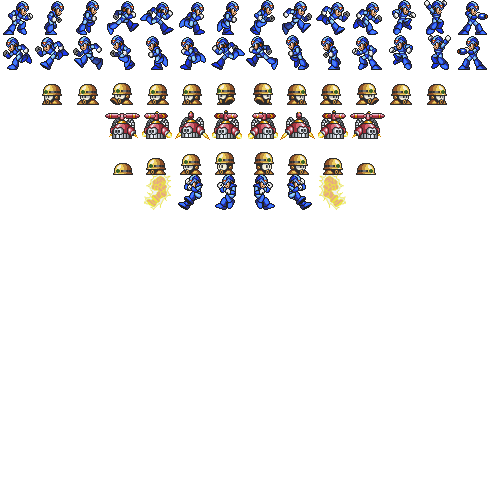
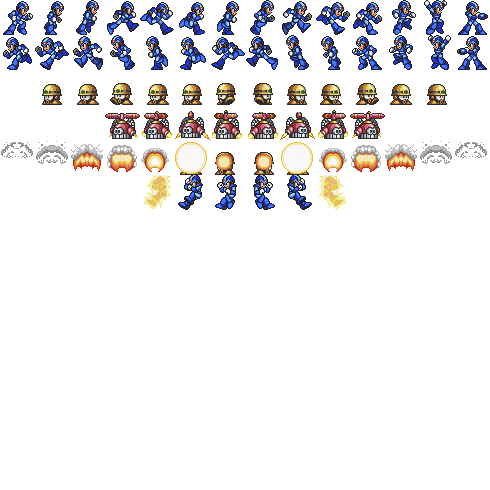
collisions with enemies

Changed region(s): [[0.5204, 0.2755, 1.0, 0.3673], [0.0, 0.2755, 0.4898, 0.3673]]

diff --git a/cBicho.cpp b/cBicho.cpp
@@ -8,7 +8,7 @@ cBicho::cBicho(void)
 {
 	seq=0;
 	delay=0;
-
+	ostion = false;
 	jumping = false;
 }
 cBicho::~cBicho(void){}
@@ -180,7 +180,8 @@ void cBicho::MoveLeft(int *map)
 		x -= STEP_LENGTH;
 		if(state != STATE_WALKLEFT)
 		{
-			if (jumping) state = STATE_JUMP_UP_LEFT;
+			if (ostion) state = STATE_JUMP_HIT_LEFT;
+			else if (jumping) state = STATE_JUMP_UP_LEFT;
 			else state = STATE_WALKLEFT;
 			seq = 0;
 			delay = 0;
@@ -212,7 +213,8 @@ void cBicho::MoveRight(int *map)
 		if(state != STATE_WALKRIGHT)
 		{
 			//SI SALTA K SALTI
-			if (jumping) state = STATE_JUMP_UP_RIGHT;
+			if (ostion) state = STATE_JUMP_HIT_RIGHT;
+			else if (jumping) state = STATE_JUMP_UP_RIGHT;
 			else state = STATE_WALKRIGHT;
 			seq = 0;
 			delay = 0;
@@ -222,7 +224,7 @@ void cBicho::MoveRight(int *map)
 void cBicho::Stop()
 {
 	//SI ESTA SALTANT NO ESTA STOP, NO ES MOU PERO SALTA
-	if (!jumping){
+	if (!jumping ){
 		switch (state)
 		{
 			case STATE_WALKLEFT:	state = STATE_LOOKLEFT;		break;
@@ -251,17 +253,42 @@ void cBicho::Jump(int *map)
 	}
 }
 
+void cBicho::Ostion(int *map)
+{
+	char s[256];
+	sprintf(s, "\nOSTION ");
+	OutputDebugStringA(s);
+	if (!jumping)
+	{
+		if (CollidesMapFloor(map))
+		{
+			ostion = true;
+			jumping = true;
+			jump_alfa = 0;
+			jump_y = y;
+			if (state == STATE_LOOKLEFT || state == STATE_JUMP_UP_LEFT || state == STATE_WALKLEFT || state == STATE_FALLING_LEFT)
+				state = STATE_JUMP_HIT_LEFT;
+			else state = STATE_JUMP_HIT_RIGHT;
+		}
+	}
+}
+
 bool cBicho::IsHited(cEnemy Enemies[], int size){
-	//35 = w&h && xR+10 = wShot/2 && xY+13 = hShot/
+	bool mandao = false;
 	for (int i = 0; i < size; ++i) {
 		int xRival, yRival;
 		Enemies[i].GetPosition(&xRival, &yRival);
-		if (x + 35 >= xRival - (35) && x + 35 <= xRival + (35)) {
-			if (((y + 35 / 2) >= (yRival - 35/2)) && ((y + 35 / 2) <= (yRival + 35/2))) return true;
-			else return false;
-		}
-		else return false;
+		
+		if (x == xRival || x+1 == xRival || x-1 == xRival) {
+			if (((y + 35 / 2) >= (yRival - 35 / 2)) && ((y + 35 / 2) <= (yRival + 35 / 2))) {
+				char s[256];
+				sprintf(s, "\n MAN DAO! el enemigo %d",i);
+				OutputDebugStringA(s);
+				return true;
+			}
+		}	
 	}
+	return false;
 }
 
 void cBicho::Shot(int *map, bool isRight)
@@ -355,6 +382,7 @@ void cBicho::Logic(int *map)
 		if(jump_alfa == 180)
 		{
 			jumping = false;
+			ostion = false;
 			y = jump_y;
 		}
 		else
@@ -365,11 +393,15 @@ void cBicho::Logic(int *map)
 			if(jump_alfa > 90)
 			{
 				//Over floor?
+				ostion = !CollidesMapFloor(map);
 				jumping = !CollidesMapFloor(map);
 				//ESTA CAIENT DESPRES DE SALTAR
-				if (state == STATE_LOOKLEFT || state == STATE_JUMP_UP_LEFT || state == STATE_WALKLEFT || state == STATE_FALLING_LEFT)
-					state = STATE_FALLING_LEFT;
-				else state = STATE_FALLING_RIGHT;
+				if (!ostion){
+					if (state == STATE_LOOKLEFT || state == STATE_JUMP_UP_LEFT || state == STATE_WALKLEFT || state == STATE_FALLING_LEFT){
+						state = STATE_FALLING_LEFT;
+					}
+					else state = STATE_FALLING_RIGHT;
+				}
 			}
 		}
 	}

diff --git a/cGame.cpp b/cGame.cpp
@@ -37,6 +37,7 @@ bool cGame::Init()
 	Player.SetWidthHeight(35,35);
 	Player.SetState(STATE_LOOKRIGHT);
 
+
 	//Shot Initialization
 	res = Data.LoadImage(IMG_SHOTRIGHT, "shootRight.png", GL_RGBA);
 	if (!res) return false;
@@ -68,13 +69,6 @@ void cGame::InitEnemies(int level) {
 		Monster.SetMaxStep(62);
 		Monster.SetTile(78, 5);
 		Enemies[2] = Monster;
-		cEnemy2 Monster2 = cEnemy2();
-		Monster2.SetWidthHeight(35, 35);
-		Monster2.SetMaxStep(40);
-		Monster2.SetTile(5, 3);
-		Monster2.SetWidthHeight(35, 35);
-		Monster2.SetState(STATE_LOOKRIGHT);
-		Enemies2[0] = Monster2;
 	}
 }
 
@@ -129,7 +123,8 @@ bool cGame::Process()
 	Player.GetShotPosition(&xShot, &yShot);
 	//Monster.Move(Scene.GetMap());
 	//Game Logic
-	if (Player.IsHited(Enemies, ENEMIES_1)) Player.Stop();
+
+	if (Player.IsHited(Enemies, ENEMIES_1)) Player.Ostion(Scene.GetMap());
 	else Player.Logic(Scene.GetCollisionMap());
 	for (int i = 0; i < ENEMIES_1; ++i) {
 		Enemies[i].Move(Scene.GetMap(), xShot, yShot);

diff --git a/cBicho.h b/cBicho.h
@@ -20,6 +20,8 @@ using namespace std;
 #define STATE_FALLING_LEFT	6
 #define STATE_FALLING_RIGHT	7
 #define STATE_HITED			8
+#define STATE_JUMP_HIT_RIGHT 9 
+#define STATE_JUMP_HIT_LEFT 10
 
 //New defines
 #define SHOT_STEP			5
@@ -57,6 +59,7 @@ public:
 	void MoveRight(int *map);
 	void MoveLeft(int *map);
 	void Jump(int *map);
+	void Ostion(int *map);
 	void Stop();
 	void Logic(int *map);
 
@@ -83,6 +86,7 @@ private:
 
 	
 	bool jumping;
+	bool ostion;
 	int jump_alfa;
 	int jump_y;
 

diff --git a/cPlayer.cpp b/cPlayer.cpp
@@ -47,6 +47,15 @@ void cPlayer::Draw(int tex_id)
 			NextFrame(7);
 			break;
 
+		case STATE_JUMP_HIT_LEFT:
+			xo = (size * 6.0f) - (GetFrame()* size); yo = size*5.0f;
+			NextFrame(3);
+			break;
+		case STATE_JUMP_HIT_RIGHT:
+			xo = (size * 7.0f) + (GetFrame()* size); yo = size*5.0f;
+			NextFrame(3);
+			break;
+
 
 	}
 	xf = xo + size;

diff --git a/cEnemy.cpp b/cEnemy.cpp
@@ -440,7 +440,7 @@ void cEnemy::Draw(int tex_id)
 		//8
 	case STATE_DIE:
 		xo = (size * 6) - (GetFrame()* size);	yo = 4.0f*size;
-		NextFrame(4);
+		NextFrame(7);
 		break;
 
 

diff --git a/cGame.h b/cGame.h
@@ -37,5 +37,4 @@ private:
 	cPlayer Player;
 	cData Data;
 	cEnemy Enemies[ENEMIES_1];
-	cEnemy2 Enemies2[ENEMIES_2];
 };
